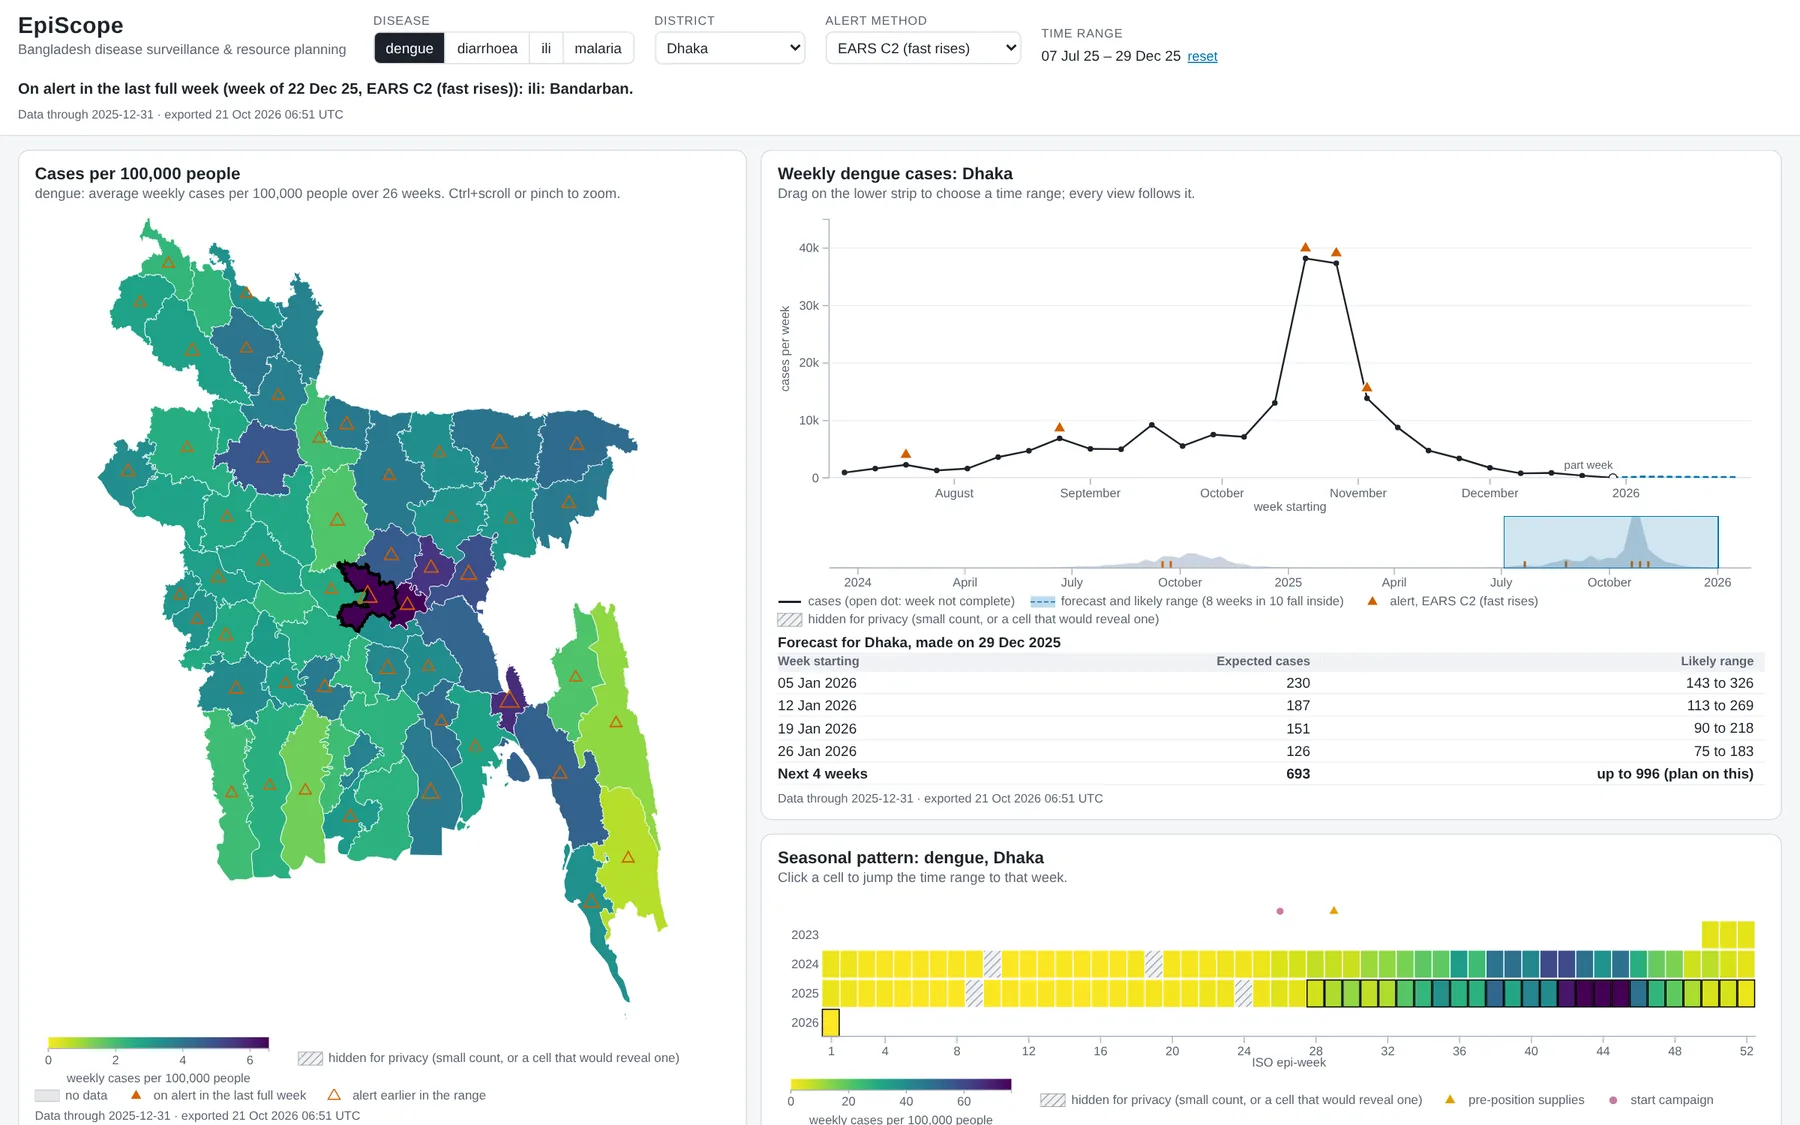
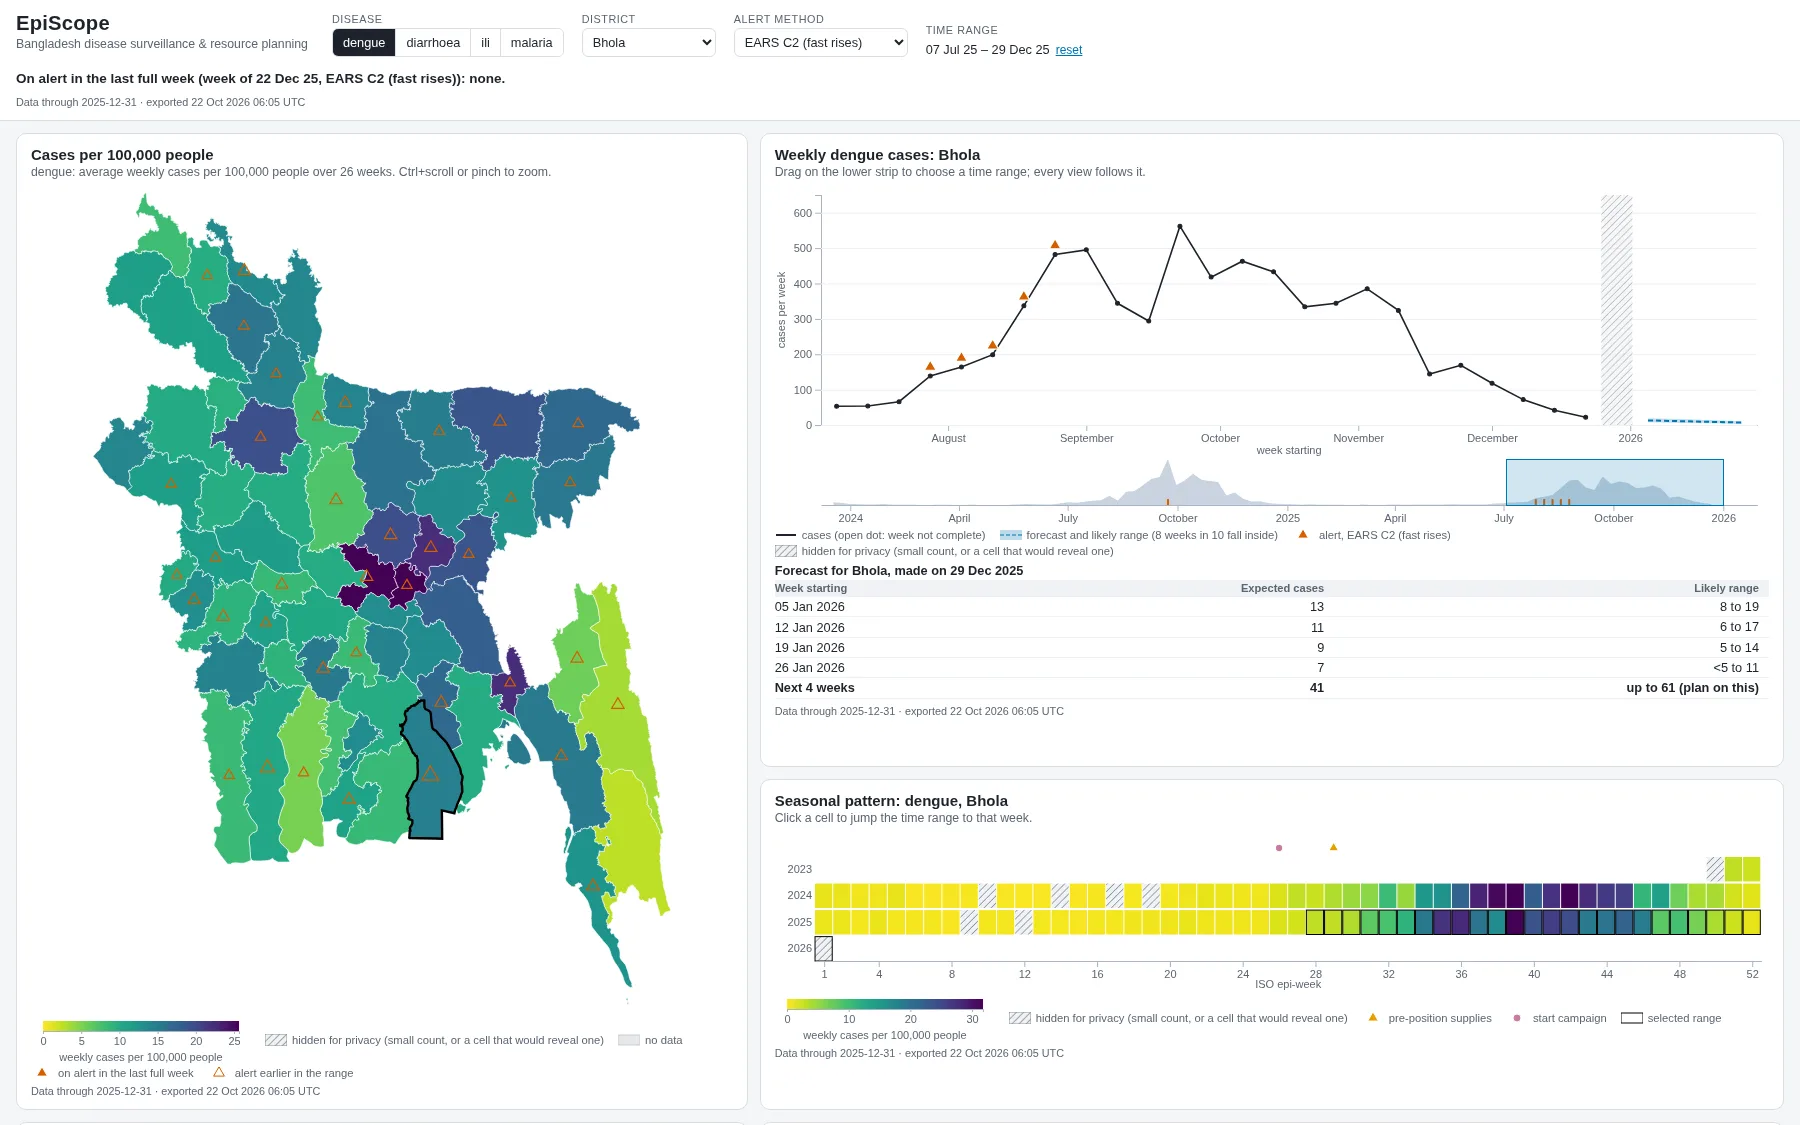
Dashboard screenshots from the SF=1 build with the final detection defaults (EARS C2 4.0, CUSUM h 6.5); script 2b says no district is on alert in the last full week

diff --git a/script-content.js b/script-content.js
@@ -211,8 +211,8 @@ window.EPI_SCRIPT = [
     paras: [
       "[SHOW the dashboard in the browser at 125% zoom]",
       "There are five views, sharing one selection. The map shows cases per hundred thousand people, so a big district doesn't look worse just for being big. The table ranks districts by alerts, so an officer knows where to look first.",
-      "[SHOW the line at the top, then point to one solid and one outlined triangle]",
-      "The line at the top names districts on alert in the last full week. On the map, a solid triangle means the same; an outlined one, alerts earlier in the range only.",
+      "[SHOW the line at the top (it says none), then point to the outlined triangles]",
+      "The line at the top names districts on alert in the last full week. In our last week there are none. On the map, a solid triangle would mean the same; an outlined one marks alerts earlier in the range.",
       "[SHOW click Chattogram on the map]",
       "When I click Chattogram, the weekly chart, seasonal pattern and allocation all switch to it.",
       "[NEXT SLIDE] [then back to the browser: drag on the lower time strip, then hover the newest week]",

diff --git a/index.html b/index.html
@@ -478,7 +478,7 @@
     </div>
     <div data-in>
       <div class="shot"><img src="assets/p-ts.webp" alt="Dashboard weekly dengue chart for Dhaka with EARS C2 alert markers"></div>
-      <p class="small">Real output: weekly dengue in Dhaka, triangles are EARS C2 alerts (SF=0.25 build, 21 Oct).</p>
+      <p class="small">Real output: weekly dengue in Dhaka, triangles are EARS C2 alerts at threshold 4.0 (final SF=1 build).</p>
     </div>
   </div>
 </section>
